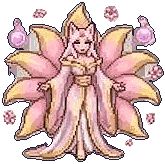
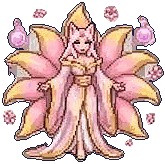
九尾狐加強：更華麗的顏色、光暈與環繞狐火、進化專屬特效
- tools/pixel_polish.py：每個種族可以個別調色（TUNE）；九尾狐彩度 1.25、對比 1.08，和服的紅紫金更飽和
- 新增夥伴特效系統 PET_FX（core.js）：每個種族設定光暈顏色、環繞的像素小物和閃光顏色，之後其他種族照格式加
  - 九尾狐第 3 階段起：背後粉紫色會呼吸的光暈＋繞著身體轉的像素狐火（第 3 階段 2 顆、第 4 階段 3 顆、第 5 階段 4 顆而且轉得比較快）
  - 狐火沿橢圓繞圈，繞到後面會被身體擋住；像素火焰用 SVG 方塊畫，放大也銳利
  - 原本的閃光點改用種族的顏色（九尾狐是粉紅）
- 進化畫面：有專屬特效的種族會亮起光暈，10 顆狐火從角色往外噴
- 尊重「減少動態效果」設定：關掉動畫時只留靜態光暈
- sw.js 快取版本 v24

Claude-Session: https://claude.ai/code/session_016wQJDqNmeMZi3CzSXZ7hYD

diff --git a/web/style.css b/web/style.css
@@ -271,7 +271,7 @@ button.card:active { transform: translate(2px, 2px); box-shadow: 2px 2px 0 var(-
 .pet img { position: relative; z-index: 1; transform-origin: 50% 100%; max-width: 86vw; height: auto; image-rendering: pixelated; }
 .pet-shadow { width: 56%; height: 12px; border-radius: 50%; background: rgba(27,30,60,.3); margin-top: -7px; }
 .pet-fx { position: absolute; inset: 0; pointer-events: none; }
-.pet-fx i { position: absolute; width: 6px; height: 6px; background: #FFF6C9; box-shadow: 0 0 0 2px var(--pill); opacity: 0; }
+.pet-fx i { position: absolute; width: 6px; height: 6px; background: #FFF6C9; box-shadow: 0 0 0 2px var(--spark, var(--pill)); opacity: 0; }
 .pet-fx i:nth-child(1) { left: 8%; top: 30%; } .pet-fx i:nth-child(2) { right: 6%; top: 18%; }
 .pet-fx i:nth-child(3) { left: 22%; top: 8%; } .pet-fx i:nth-child(4) { right: 20%; top: 55%; }
 @keyframes bob { 50% { transform: translateY(-5px); } }
@@ -771,3 +771,33 @@ ol.steps { margin: 0; padding-left: 1.4em; font-size: .9375rem; line-height: 1.7
 .share-photo svg { width: 18px; height: 18px; stroke: currentColor; fill: none; stroke-width: 2; }
 .share-prev.checker img { background: repeating-conic-gradient(#C9CCDD 0 25%, #EEF0F8 0 50%) 0 0 / 24px 24px; }
 .share-note { margin-bottom: 6px; }
+
+/* ── 夥伴特效：光暈＋環繞的像素小物（PET_FX） ── */
+.pet-aura { position: absolute; left: 50%; bottom: 10%; width: 120%; aspect-ratio: 1; translate: -50% 0; border-radius: 50%; z-index: 0; pointer-events: none;
+  background: radial-gradient(circle, rgba(var(--aura), .55) 0%, rgba(var(--aura), .22) 38%, rgba(var(--aura), 0) 68%); }
+.pet.s2 .pet-aura { opacity: .55; } .pet.s3 .pet-aura { opacity: .8; }
+.pet-orbit { position: absolute; left: 50%; top: 44%; width: 0; height: 0; pointer-events: none; }
+.pet-orbit i { position: absolute; left: 0; top: 0; z-index: 2; translate: 0 0; }
+.pet-orbit i b { display: block; transform: translate(-50%, -50%); }
+.pet-orbit svg { display: block; width: 18px; height: auto; filter: drop-shadow(0 0 4px rgba(255, 120, 210, .9)); }
+.pet.s4 .pet-orbit svg { width: 22px; }
+.evo-pic { position: relative; display: grid; place-items: center; }
+.evo-pic img { position: relative; z-index: 1; }
+.evo-burst { position: absolute; inset: 0; pointer-events: none; }
+.evo-burst::before { content: ""; position: absolute; inset: -10%; border-radius: 50%;
+  background: radial-gradient(circle, rgba(var(--aura), .7), rgba(var(--aura), 0) 65%); }
+.evo-burst i { position: absolute; left: 50%; top: 50%; width: 22px; opacity: 0; }
+.evo-burst svg { width: 100%; height: auto; display: block; }
+@media (prefers-reduced-motion: no-preference) {
+  .pet-aura { animation: aura-breathe 3.2s ease-in-out infinite; }
+  .pet-orbit i { animation: orbit-xy 9s steps(48) infinite; animation-delay: calc(-9s * var(--k) / var(--n)); }
+  .pet-orbit.fast i { animation-duration: 6.5s; animation-delay: calc(-6.5s * var(--k) / var(--n)); }
+  .pet-orbit i b { animation: flicker .5s steps(2) infinite; }
+  @keyframes orbit-xy { 0.0% { translate: 112px 0px; z-index: 2; scale: 1.00; } 8.33% { translate: 97px 20px; z-index: 2; scale: 1.09; } 16.67% { translate: 56px 35px; z-index: 2; scale: 1.16; } 25.0% { translate: 0px 40px; z-index: 2; scale: 1.18; } 33.33% { translate: -56px 35px; z-index: 2; scale: 1.16; } 41.67% { translate: -97px 20px; z-index: 2; scale: 1.09; } 50.0% { translate: -112px 0px; z-index: 2; scale: 1.00; } 58.33% { translate: -97px -20px; z-index: 0; scale: 0.91; } 66.67% { translate: -56px -35px; z-index: 0; scale: 0.84; } 75.0% { translate: -0px -40px; z-index: 0; scale: 0.82; } 83.33% { translate: 56px -35px; z-index: 0; scale: 0.84; } 91.67% { translate: 97px -20px; z-index: 0; scale: 0.91; } 100.0% { translate: 112px -0px; z-index: 0; scale: 1.00; } }
+  .evo-burst::before { animation: aura-breathe 1.6s ease-in-out 3; }
+  .evo-burst i { animation: burst 1.4s cubic-bezier(.2, .8, .3, 1) calc(var(--k) * 40ms) 2 both; }
+  @keyframes aura-breathe { 0%, 100% { scale: .92; opacity: var(--o, .75); } 50% { scale: 1.06; opacity: 1; } }
+  @keyframes flicker { 50% { filter: brightness(1.25); } }
+  @keyframes burst { 0% { opacity: 1; transform: translate(-50%, -50%) rotate(calc(36deg * var(--k))) translateY(0); }
+    100% { opacity: 0; transform: translate(-50%, -50%) rotate(calc(36deg * var(--k))) translateY(-130px); } }
+}

diff --git a/web/js/me.js b/web/js/me.js
@@ -32,8 +32,8 @@ async function viewMe() {
     const sp = species(g.character.species);
     const nextLv = g.next_stage_level;
     hero = `<section class="hero" aria-labelledby="pet">
-      <div class="stage"><button class="pet s${g.stage}" id="pet-btn" aria-label="跟${esc(g.character.nickname)}互動">
-        <span class="pet-fx" aria-hidden="true"><i></i><i></i><i></i><i></i></span>${charImg(sp.id, g.stage, 200)}<span class="pet-shadow"></span></button></div>
+      <div class="stage"><button class="pet s${g.stage}" id="pet-btn" data-sp="${sp.id}" style="${petSpark(sp.id) ? `--spark:${petSpark(sp.id)}` : ""}" aria-label="跟${esc(g.character.nickname)}互動">
+        ${petFx(sp.id, g.stage)}<span class="pet-fx" aria-hidden="true"><i></i><i></i><i></i><i></i></span>${charImg(sp.id, g.stage, 200)}<span class="pet-shadow"></span></button></div>
       <div class="hero-info">
         <p class="sp">${esc(sp.name)}，第 ${g.stage + 1} 階段「${esc(g.character.stage_name)}」</p>
         <h2 id="pet">${esc(g.character.nickname)}</h2>
@@ -101,7 +101,10 @@ function celebrate(g) {
   const evolved = g.stage > prev.stage;
   const ov = document.createElement("div");
   ov.className = "levelup"; ov.setAttribute("role", "dialog"); ov.setAttribute("aria-label", evolved ? "進化" : "升級");
-  ov.innerHTML = `<div class="card">${charImg(g.character.species, g.stage, 180)}
+  const burst = evolved && PET_FX[g.character.species]
+    ? `<span class="evo-burst" style="--aura:${PET_FX[g.character.species].aura}" aria-hidden="true">${Array.from({ length: 10 }, (_, i) =>
+      `<i style="--k:${i}">${pixelOrb(PET_FX[g.character.species].orb, PET_FX[g.character.species].colors)}</i>`).join("")}</span>` : "";
+  ov.innerHTML = `<div class="card"><div class="evo-pic">${burst}${charImg(g.character.species, g.stage, 180)}</div>
     <h2>${evolved ? `進化成「${esc(g.character.stage_name)}」！` : "升級了！"}</h2>
     <p class="num" style="font-size:1.25rem;margin:4px 0 14px">Lv ${prev.level} → <b style="font-size:1.75rem;color:var(--c-run)">${g.level}</b></p>
     <button class="btn" type="button">太棒了</button></div>`;

diff --git a/web/js/core.js b/web/js/core.js
@@ -166,6 +166,31 @@ async function loadChars() {
 }
 const species = (id) => S.chars?.species.find((s) => s.id === id);
 
+// ── 夥伴特效：每個種族自己的光暈和環繞小物（從第 from 階段開始；越高階越亮）──
+// 之後其他種族照這個格式加：aura 是光暈的 RGB，orb 是環繞的像素小圖（顏色 3 個：外、中、心）
+const PET_FX = {
+  fox_spirit: { from: 2, aura: "255,105,190", orb: "flame", colors: ["#C2369E", "#FF7AD0", "#FFE6F7"], spark: "#FFB8E6" },
+};
+
+// 像素火焰（7×9 格），用 SVG 的小方塊畫，放大也是銳利的像素
+function pixelOrb(kind, [c1, c2, c3]) {
+  const F = ["...1...", "..121..", "..121..", ".12221.", ".12321.", "1223321", "1233321", ".12321.", "..111.."];
+  const fill = { 1: c1, 2: c2, 3: c3 };
+  let r = "";
+  F.forEach((row, y) => [...row].forEach((ch, x) => { if (fill[ch]) r += `<rect x="${x}" y="${y}" width="1" height="1" fill="${fill[ch]}"/>`; }));
+  return `<svg viewBox="0 0 7 9" shape-rendering="crispEdges" aria-hidden="true">${r}</svg>`;
+}
+
+function petFx(speciesId, stage) {
+  const fx = PET_FX[speciesId];
+  if (!fx || stage < fx.from) return "";
+  const n = stage >= 4 ? 4 : stage >= 3 ? 3 : 2;
+  return `<span class="pet-aura" style="--aura:${fx.aura}" aria-hidden="true"></span>
+    <span class="pet-orbit${stage >= 4 ? " fast" : ""}" aria-hidden="true">${Array.from({ length: n }, (_, i) =>
+      `<i style="--k:${i};--n:${n}"><b>${pixelOrb(fx.orb, fx.colors)}</b></i>`).join("")}</span>`;
+}
+const petSpark = (speciesId) => PET_FX[speciesId]?.spark || "";
+
 // scale：同一系列所有階段用同一個倍率，所以越後面的階段畫面上越大
 function charImg(id, stage, boxH = 200, cls = "") {
   const sp = species(id);

diff --git a/web/sw.js b/web/sw.js
@@ -1,5 +1,5 @@
 // 只快取 App 外殼，讓主畫面圖示在網路不穩時也打得開；API 一律走網路。
-const CACHE = "ic8-shell-v23";
+const CACHE = "ic8-shell-v24";
 const SHELL = ["/", "/style.css", "/js/core.js", "/js/summary.js", "/js/activity.js", "/js/analysis.js",
   "/js/me.js", "/js/brief.js", "/js/apple.js", "/js/strength.js", "/js/learn.js", "/js/runner.js", "/js/share.js", "/js/main.js", "/manifest.webmanifest", "/characters/manifest.json", "/icons/apple-touch-icon.png"];
 

diff --git a/tools/pixel_polish.py b/tools/pixel_polish.py
@@ -57,6 +57,12 @@ def polish(path, colors=96, sat=1.12, contrast=1.06):
     return Image.fromarray(pad)
 
 
+# 每個種族可以個別調整：sat 彩度、contrast 對比、colors 顏色數
+TUNE = {
+    "fox_spirit": {"sat": 1.25, "contrast": 1.08},   # 和服的紅、紫、金更華麗
+}
+
+
 # ───────── 指令列：python tools/pixel_polish.py fox_spirit [golem …] ─────────
 if __name__ == "__main__":
     import json, shutil, sys
@@ -73,7 +79,7 @@ if __name__ == "__main__":
             src_png = orig / sp / f"{i}.png"
             if not src_png.exists():                       # 第一次：先把原圖收好，之後都從原圖重做
                 shutil.copy2(chars / sp / f"{i}.png", src_png)
-            out = polish(src_png)
+            out = polish(src_png, **TUNE.get(sp, {}))
             out.save(chars / sp / f"{i}.png", optimize=True)
             st["w"], st["h"] = out.width, out.height
         print(f"{sp}: 完成 {len(entry['stages'])} 張")
